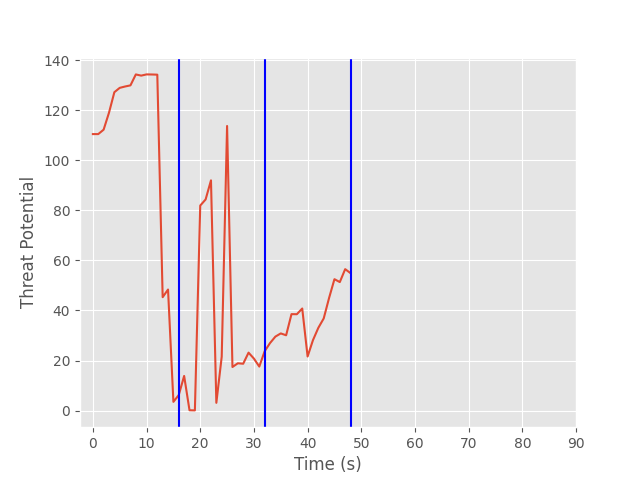
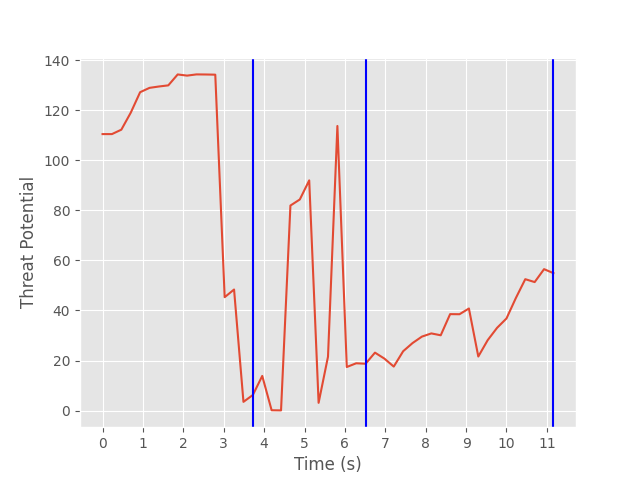
Save to Github

diff --git a/data_statistics/threat_Potential/threat_calculation.py b/data_statistics/threat_Potential/threat_calculation.py
@@ -62,13 +62,13 @@ def Threat_evolution(df,dfPlayers,max_frame,dfxT,first_frame):
   plt.style.use('ggplot')
   plt.plot(values, )
 
-  highlights = [16,32,48 ]
+  highlights = [16,28,48 ]
 
   for h in highlights:
       plt.axvline(h, c='blue')
  
   plt.xlabel('Time (s)')
-  plt.xticks(np.arange(0, 100,10))
+  plt.xticks(np.arange(0, 49, 4.3), np.arange(0, 12))
   plt.ylabel('Threat Potential')
   plt.savefig('output/threat chart.png')
   return highlights,values

diff --git a/drawing/draw_threat_frame.py b/drawing/draw_threat_frame.py
@@ -45,7 +45,7 @@ def draw_frame(t):
         else:
             size = 3
             color='white'
-            if dfPlayers.loc[pid]['Position'] == 'Defense':
+            if dfPlayers.loc[pid]['Position'] == 'Attack':
                 color= dfPlayers.loc[pid]['Color']                        
             else:
                 color=color= dfPlayers.loc[pid]['Color']

diff --git a/main_calling_function.py b/main_calling_function.py
@@ -13,8 +13,8 @@ def all_statistics(df):
    '''
    from video_creation.create_video import video_creation, video_voronoi_creation
    from data_statistics.threat_Potential import threat_image     
-   video_creation()
-   video_voronoi_creation()
+   #video_creation()
+   #video_voronoi_creation()
    threat_image.display_threat(df)
    
 all_statistics(df)

diff --git a/data_statistics/threat_Potential/threat_multipoints.py b/data_statistics/threat_Potential/threat_multipoints.py
@@ -41,8 +41,8 @@ def create_multipoints(df):
   dfxT.xT = np.clip(dfxT.xT-dfxT.xT.median(), 0, 1)
 
   #flip axis if necessary (to align with attacking team)
-  #dfxT2.x = 100-dfxT.x
-  #dfxT2.y = 100-dfxT.y
+  #dfxT.x = 100-dfxT.x
+  #dfxT.y = 100-dfxT.y
 
   fig, ax = draw_pitch()
 
